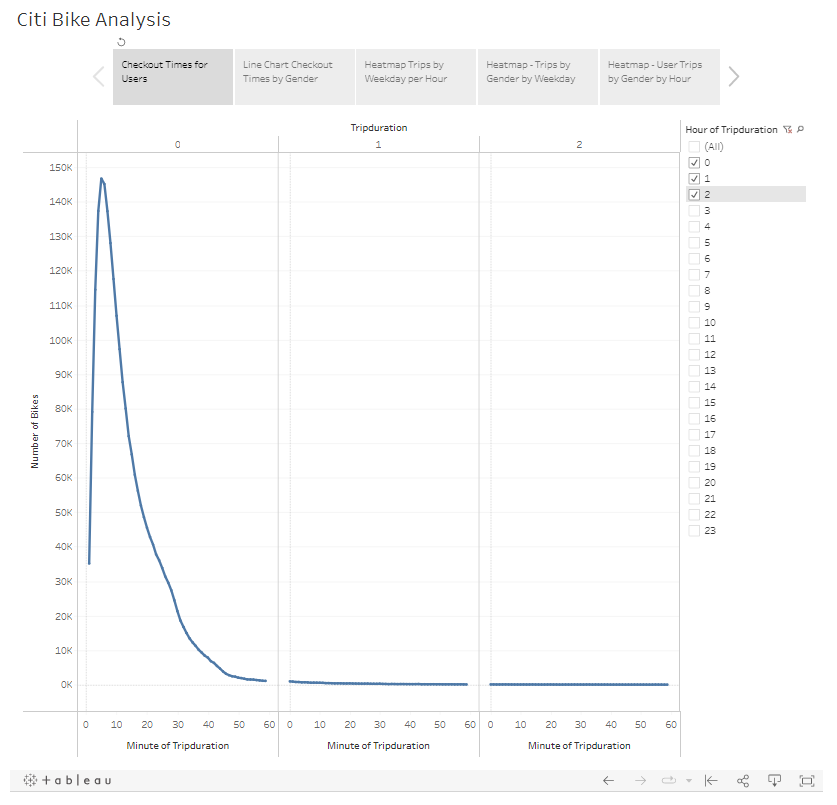
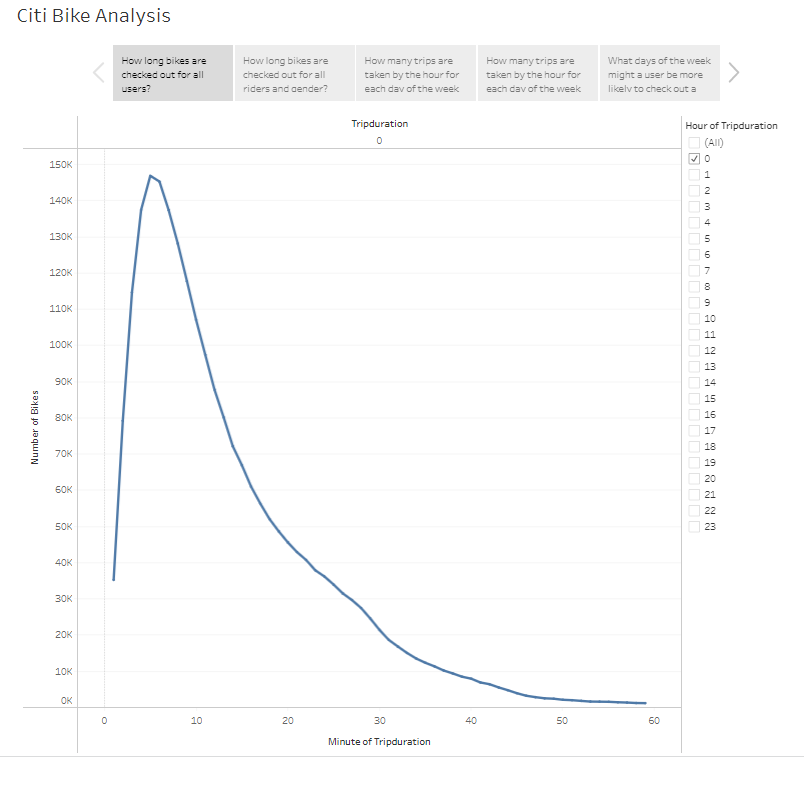
updated readme and included additional photos

diff --git a/README.md b/README.md
@@ -2,63 +2,85 @@
 
 WHY WONT THIS UPDATE ON GIT HUB?
 
-Tableau Public - Data Visualization through worksheets, dashboards and stories
 # Bikesharing Data Analysis
+
 tableau public project for data bike sharing
+
 ## Background
-For deliverable 1 the purpose is to demonstrate how the column that included the "tripduration" can be successful convereted to the correct "datetime data type with corrrect formating and exported to a new file.
-For deliverable 2 the purpsoe is to use Tableau to create visualizations that show:
+
+The purpose of this exerize is to demonstrate how to utilize Tableau Public - Data Visualization through worksheets, dashboards and stories
+
+### - For deliverable 1 the purpose is to demonstrate
+
+how the column that included the "tripduration" can be successful convereted to the correct "datetime data type with corrrect formating and exported to a new file.
+
+### - For deliverable 2 the purpsoe is to use Tableau to create visualizations that show:
+
 - How long bikes are checked out for all riders and genders.
 - How many trips are taken by the hour for each day of the week, for all riders and genders.
 - A breakdown of what days of the week a user might be more likely to check out a bike, by type of user and gender.
-For deliverable 3 the purpose is to demonstate Tableau's Story feature usings story points as a final presentation.
+
+### - For deliverable 3 the purpose is to demonstate Tableau's Story feature usings story points as a final presentation.
 
 ## Deliverable 1: Change Trip Duration to a Datetime Format
-![Proof of Trip Duration Values being changed to Datetime Format](/TripDurationValues_to_Datetime_Format.PNG)
 
-How long bikes are checked out for all riders and genders.
-How many trips are taken by the hour for each day of the week, for all riders and genders.
-A breakdown of what days of the week a user might be more likely to check out a bike, by type of user and gen
-### Checkout Times for Users Viz
-### Checkout Times by Gender Viz
-### Trips by Weekday per Hour Viz
-### Trips by Gender (Weekday per Hour)
-### User Trips by Gender (by Weekday) Viz
-
+![TripDurationValues_to_Datetime_Format.PNG](/TripDurationValues_to_Datetime_Format.PNG)
 
 ## Deliverable 2: Create Visualizations for the Trip Analysis
 
-### - Line Graph Number of Bikes Checked out of duration per Gender and/or per hour
+### - Checkout Times for Users Viz: Line Graph Number of Bikes Checked out of duration per Gender and/or per hour
 
-![]()
+![Vis1.PNG](/Vis1.PNG)
+
 ### Results:
+- Amongst all users the most frequent trip duration is five minuets with a count of 146,752 users. 
+- The data is right skewed, with most of the users having a trip duration under 25 minuets.
+- Almost all the data is under an hour, with posible outliers that should be considered
+### - Checkout Times by Gender Viz: Line Graph Number of Bikes Checked out by duration filtered by gender and/or hour
 
+![Vis2.PNG](/Vis2.PNG)
 
-### - Line Graph Number of Bikes Checked out by duration filtered by gender and/or hour
-
-![]()
 ### Results:
+- There are more male users than female useres
+- Males most frequent trip duration is 5 minuets.
+- Females most frequest trip duration is 6 minuets.
+- Males indicate the have longer trips, this may be due just to the volume of male vs. female users alone.
 
-### - A heatmap showing the number of bike trips for each hour of each day of the week
 
-![]()
+### - Trips by Weekday per Hour Viz: A heatmap showing the number of bike trips for each hour of each day of the week
+
+![Viz3.PNG](/Viz3.PNG)
+
 ### Results:
+- There apears to be a few general patterns:
+- On weekdays bikes are in use from 6 a.m. - 10:00 a.m. they increase each hour peaking during the 8:00 a.m. - 9:00 a.m. time slot.  
+- On weekdays bikes are also in higher use from 3:00 p.m. to 9:00 p.m. with the exception of Wensdays which indicate moderate use for that days peak hours, but significantly lower compared to other weekdays.
+- An assumption would be that users are utilizing the times to get to and from work.
+- Weekends (10,000 users or more) to to start later between 8:00 a.m. and 9:00 a.m. and taper down between 9:00 p.m. and 11:00 p.m. Time are in order for Saturday to Sunday.
+- This is likely do to leasure activity
 
-### - A heatmap showing the number of bike trips by gender for each hour of each day of the week, filtered by gendered
 
-![]()
+### - Trips by Gender (Weekday per Hour): A heatmap showing the number of bike trips by gender for each hour of each day of the week, filtered by gendered
+
+![Viz4.PNG](/Viz4.PNG)
+
 ### Results:
+- Both genders seem to follow the same general trends
+- It might be worth further invesigation to see proportionatl how male and female differ
+- It might be worth looking into further the difference between weekday and weekend numbers by women vs. weekday and weekend numbers for men.
 
-### - A heatmap showing the number of bike trips for each type of user and gender for each day of the week, filterable by user and gender
+### - User Trips by Gender (by Weekday) Viz: A heatmap showing the number of bike trips for each type of user and gender for each day of the week, filterable by user and gender
 
-![]()
+![Viz5.PNG](/Viz5.PNG)
+
 ### Results:
 
 ## Deliverable 3: Create a Story and Report for the Final Presentation
 
-[link to dashboard](https://public.tableau.com/app/profile/tara.lightner/viz/CitiBikeClean/CitiBikeAnalysis)
-[link to dashboard](LINK GOES HERE "link to dashboard")
+[City Bike Analysis](https://public.tableau.com/app/profile/tara.lightner/viz/CitiBikeClean/CitiBikeAnalysis)
 
 ## Summary
-There is a high-level summary of the results of seven visualizations and two additional visualizations are suggested for future analysis (5 pt)
-
+There are many other opportunites for data exploration athe would be benficial including visualization that would help answer the following:
+- Further invesigation to see proportional how male and female differ
+- The difference between weekday and weekend numbers by women vs. weekday and weekend numbers for men. This might work as a simple bar chart
+- It might be worth looking at the proportional differences between customer and subscribers. This might be done with a bubble chart.
